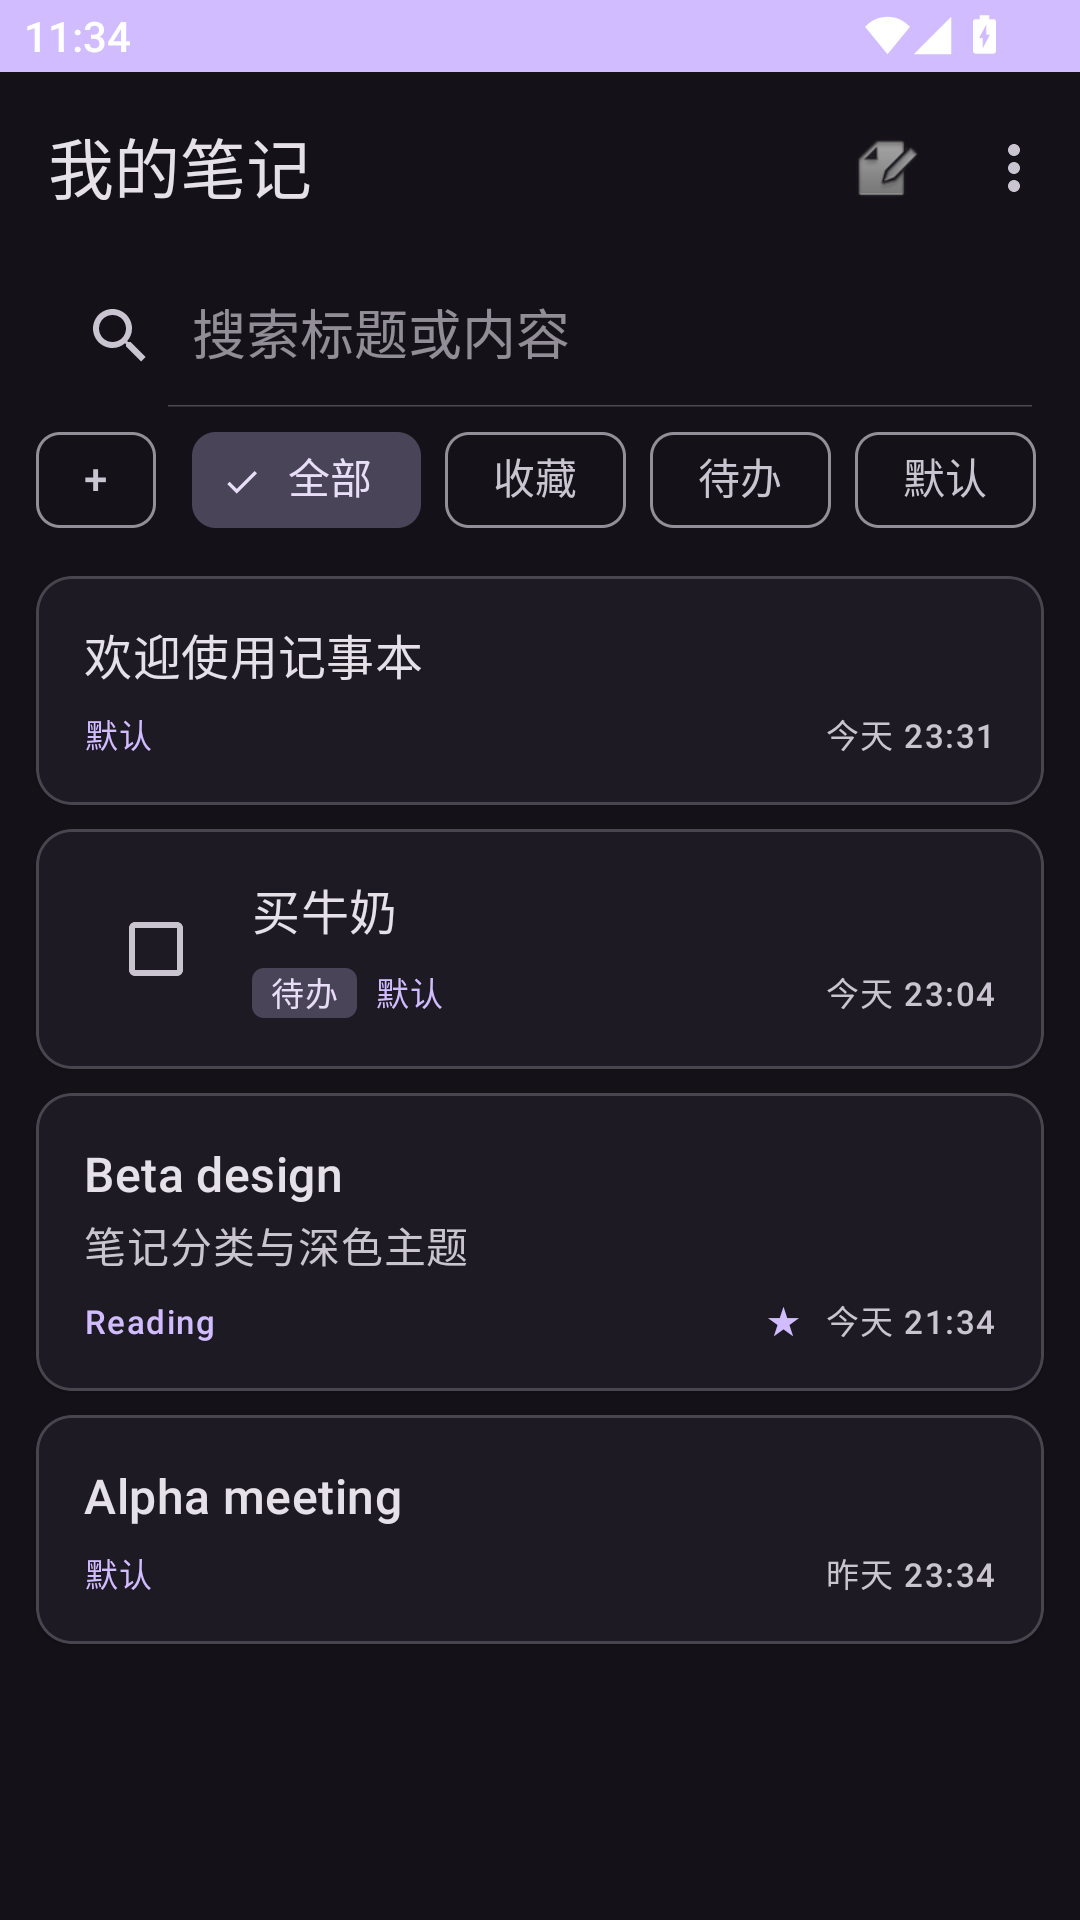
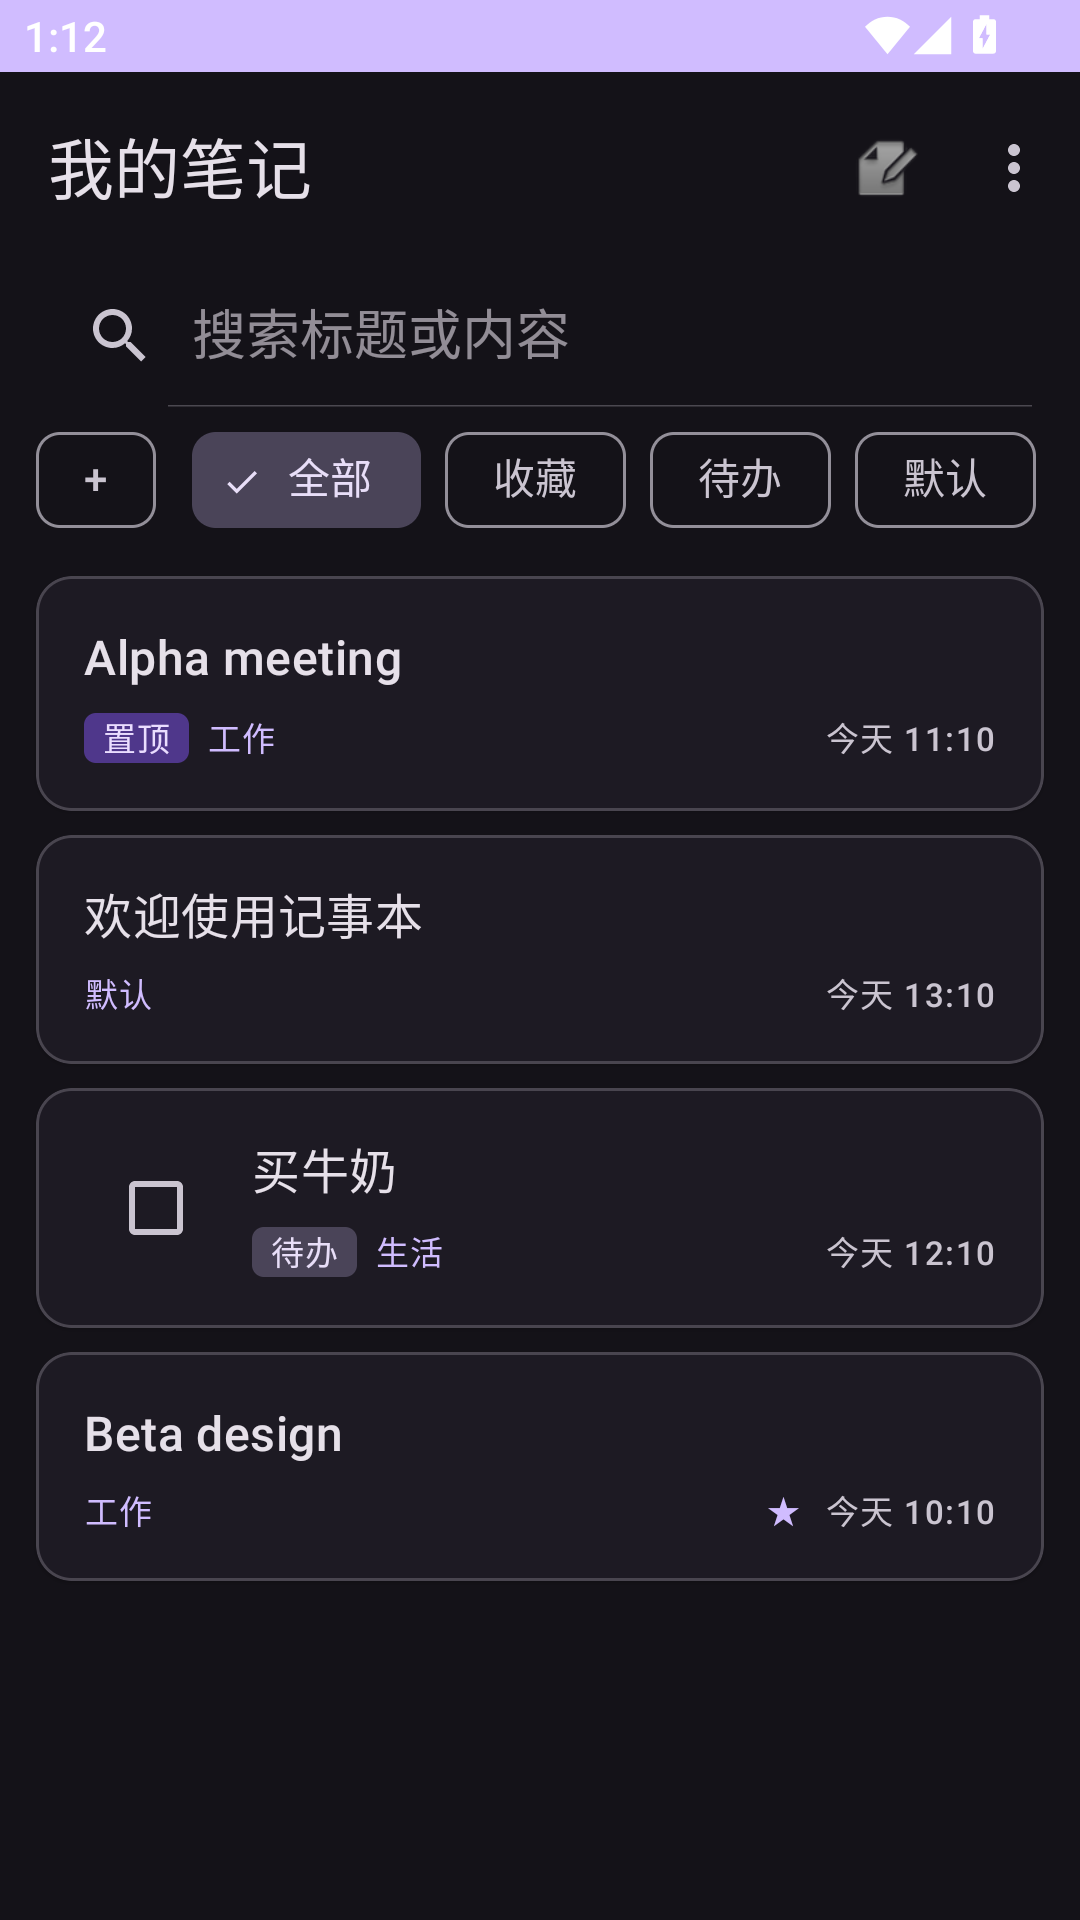
docs: 更新真机截图（置顶、搜索高亮、排序、回收站）

diff --git a/README.md b/README.md
@@ -26,13 +26,17 @@
 
 ## 截图
 
-| 列表 | 深色模式 |
+| 列表（含置顶标签） | 搜索关键词高亮 |
 |---|---|
-| ![列表](docs/list.png) | ![深色](docs/list_dark.png) |
+| ![列表](docs/list.png) | ![搜索](docs/search.png) |
 
-| 设置（主题与备份） | 待办完成态 |
+| 排序方式 | 最近删除（回收站） |
 |---|---|
-| ![设置](docs/settings.png) | ![待办](docs/todo.png) |
+| ![排序](docs/sort.png) | ![回收站](docs/trash.png) |
+
+| 深色模式 | 设置（主题与备份） |
+|---|---|
+| ![深色](docs/list_dark.png) | ![设置](docs/settings.png) |
 
 ## 技术栈
 
